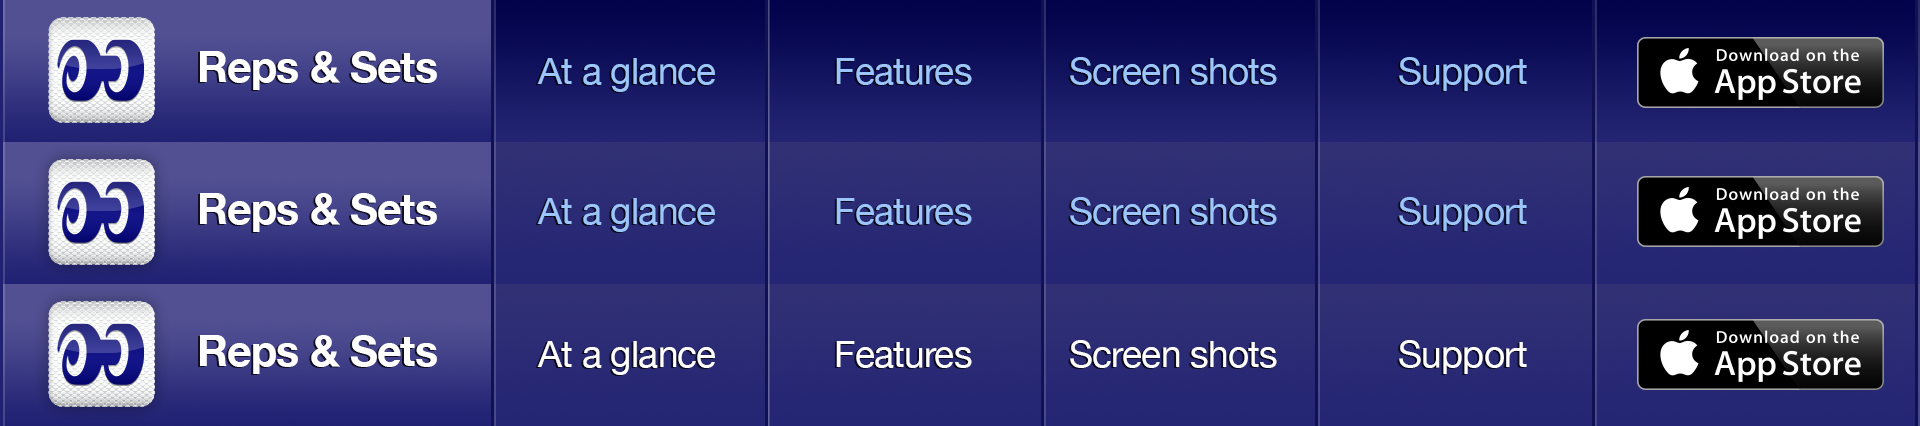
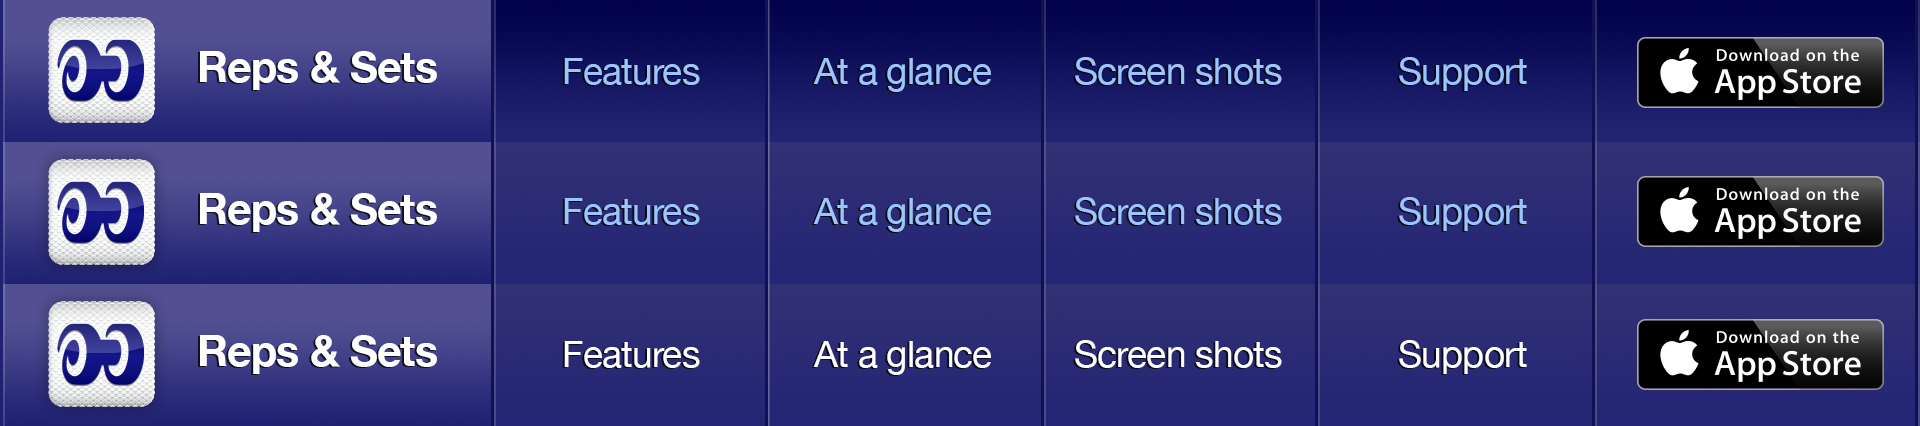
Tidied up code, updated nav, updated Google Analytics, deleted unused files

diff --git a/index.html b/index.html
@@ -81,9 +81,9 @@
         
         	<ul class="menu">
             	<li class="menu-item menu-home"><a class="btn" href="#home" onClick="_gaq.push(['_trackEvent', 'navigation', 'home']);">Home</a></li>
-                <li class="menu-item menu-how"><a class="btn" href="#how-it-works" onClick="_gaq.push(['_trackEvent', 'navigation', 'how it works']);">How it works</a></li>
-                <li class="menu-item menu-features"><a class="btn" href="#features" onClick="_gaq.push(['_trackEvent', 'navigation', 'features']);">Features</a></li>
-                <li class="menu-item menu-why"><a class="btn" href="#why-log" onClick="_gaq.push(['_trackEvent', 'navigation', 'why log']);">Why log?</a></li>
+                <li class="menu-item menu-how"><a class="btn" href="#features" onClick="_gaq.push(['_trackEvent', 'navigation', 'features']);">Features</a></li>
+                <li class="menu-item menu-features"><a class="btn" href="#at-a-glance" onClick="_gaq.push(['_trackEvent', 'navigation', 'at a glance']);">At A Glance</a></li>
+                <li class="menu-item menu-why"><a class="btn" href="#screen-shots" onClick="_gaq.push(['_trackEvent', 'navigation', 'screen shots']);">Screen shots</a></li>
                 <li class="menu-item menu-support"><a class="btn" href="#support" onClick="_gaq.push(['_trackEvent', 'navigation', 'support']);">Support</a></li>
                 <li class="menu-item menu-store"><a href="http://itunes.apple.com/app/reps-sets/id510607676" onClick="_gaq.push(['_trackEvent', 'itunes', 'app store']);">App Store</a></li>
             </ul>
@@ -164,9 +164,9 @@
     
 	<!--End of key features-->
     
-    <!--Start Main-->
+    <!--Start Features Panels-->
     
-    <a id="how-it-works" class="anchor"></a>
+    <a id="features" class="anchor"></a>
     
     
     <div class="featurepanel">
@@ -233,13 +233,13 @@
     
 
     
-    <!--End of Main-->
+    <!--End of Features Panels-->
      
     
     
-    <!--Start Features Module-->
+    <!--Start At A Glance-->
     
-    <a id="features" name="features" class="anchor"></a>
+    <a id="at-a-glance" name="features" class="anchor"></a>
     <div class="section" id="app-features">
         <div class="shadow">
     	<div class="section-inner feature-displays">
@@ -253,16 +253,17 @@
                     <ul>
                     <li>WORKOUTS
                       <ul>
-                        <li>Fast, easy and effective logging</li>
-                        <li>Check off each set as you go</li>
-                        <li>Record weights, reps, sets, rests &amp; settings</li>
-                        <li>Supports treadmill, x-trainer & rower</li>
+                        <li>Workout to-do lists</li>
+                        <li>Pre-programmed auto rest timers</li>
+                        <li>Records weights, reps, sets, rest duration &amp; equipment settings</li>
+                        <li>Also supports cardio: treadmill, x-trainer, rower, intervals, fartlek</li>
                       </ul>
                     </li>
                     <li>PROGRAMS 
                       <ul>
                         <li>Time-saving re-usable programs</li>
                         <li>Amend programs in-session</li>
+                        <li>Link a Music Playlist to your program</li>
                         <li>Set target weights, rep ranges and rests</li>
                         <li>Super-sets and giant-sets</li>
                         <li>Pre-program pyramids and drop sets</li>
@@ -280,7 +281,7 @@
                           <li>Keyword search</li>
                           <li>Browse by muscle, equipment and function</li>
                           <li>Add your favorites</li>
-                          <li>Muscles broken down by agonist, antagonist, synergist and fixator</li>
+                          <li>Interactive muscle diagram shows agonist, antagonist, synergist and fixator</li>
                     	</ul>
                 	</li>
                 	<li>HISTORY
@@ -302,7 +303,7 @@
         </div>
 	</div>
     
-    <!--End of Features Module-->
+    <!--End of At A Glance-->
     
 
    
@@ -311,7 +312,7 @@
 
     <!--Start Screen Module-->
     
-<a id="why-log" name="why-log" class="anchor"></a>
+<a id="screen-shots" name="why-log" class="anchor"></a>
 <div class="section screenshots">
     	<div class="section-inner">
         

diff --git a/css/styles.css b/css/styles.css
@@ -68,13 +68,6 @@ body {
 }
 
 
-.key-features {
-	width:240px;
-	height:136px;
-	margin: 0 auto 0 auto;
-}
-
-
 h1 {
 	font-size: 36px;
 	margin: 0 0 6px 0px;
@@ -311,6 +304,52 @@ a:hover {
 }
 
 
+
+/** KEY FEATURES
+------------------------------*/
+
+#key-features {
+	background-image: url(../images/bg-checkboxes.png);
+	background-repeat: repeat-x;
+	height: 71px;
+}
+
+.bicepscurldude {
+	background-image:url(../images/bicepscurldude.png);
+	background-position: left top;
+	background-repeat:no-repeat;
+	width: 106px;
+	height: 71px;
+	float: left;
+}
+
+#key-features .module {
+	width: 194px;
+	float: left;
+	height: 71px;
+	overflow: hidden;
+}
+#key-features .module-inner {
+	padding-left: 50px;
+	padding-top: 16px;
+}
+
+#key-features .module h2 {
+	font-size: 18px;
+	margin: 0 0 3px 0;
+}
+
+#key-features .module p {
+	font-size: 11px;
+}
+
+.tickbox {
+	background-image:url(../images/tickbox.png);
+	background-position: left 16px;
+	background-repeat:no-repeat;
+}
+
+
 /** FEATURE PANELS
 ------------------------------*/
 
@@ -341,37 +380,32 @@ a:hover {
 #featuretodos {
 	background-image: url(../images/featurepanel-todolist.png);
 	background-repeat: no-repeat;
-	background-position-x: left;
-	background-position-y: bottom;
+	background-position: left bottom;
 }
 
 #featurevisualweightselectors {
 	background-image: url(../images/featurepanel-visualweightselectors.png);
 	background-repeat: no-repeat;
-	background-position-x: right;
-	background-position-y: top;
+	background-position: top right;
 }
 
 #featureresttimers {
 	background-image: url(../images/featurepanel-resttimers.png);
 	background-repeat: no-repeat;
-	background-position-x: left;
-	background-position-y: bottom;
+	background-position: bottom left;
 }
 
 #featureexercisemanual {
 	background-image: url(../images/featurepanel-exercisemanual.png);
 	background-repeat: no-repeat;
-	background-position-x: right;
-	background-position-y: bottom;
+	background-position: bottom right;
 	width: 461px;
 }
 
 #featurehistory {
 	background-image: url(../images/featurepanel-history.png);
 	background-repeat: no-repeat;
-	background-position-x: left;
-	background-position-y: center;
+	background-position: center left;
 	width: 471px;
 }
 
@@ -422,53 +456,6 @@ a:hover {
 	background-position: center right;
 	padding: 0px 20px 0px 0px;
 	color: #20297a;
-}
-
-
-
-
-/** KEY FEATURES
-------------------------------*/
-
-#key-features {
-	background-image:url(../images/bg-checkboxes.png);
-	background-repeat:repeat-x;
-	height: 71px;
-}
-
-.bicepscurldude {
-	background-image:url(../images/bicepscurldude.png);
-	background-position: left top;
-	background-repeat:no-repeat;
-	width: 106px;
-	height: 71px;
-	float: left;
-}
-
-#key-features .module {
-	width: 194px;
-	float: left;
-	height: 71px;
-	overflow: hidden;
-}
-#key-features .module-inner {
-	padding-left: 50px;
-	padding-top: 12px;
-}
-
-#key-features .module h2 {
-	font-size: 18px;
-	margin: 0 0 3px 0;
-}
-
-#key-features .module p {
-	font-size: 11px;
-}
-
-.tickbox {
-	background-image:url(../images/tickbox.png);
-	background-position: left 10px;
-	background-repeat:no-repeat;
 }
 
 
